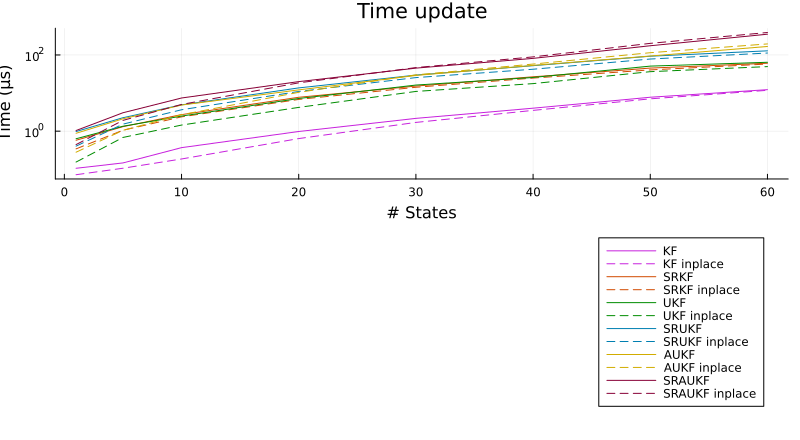
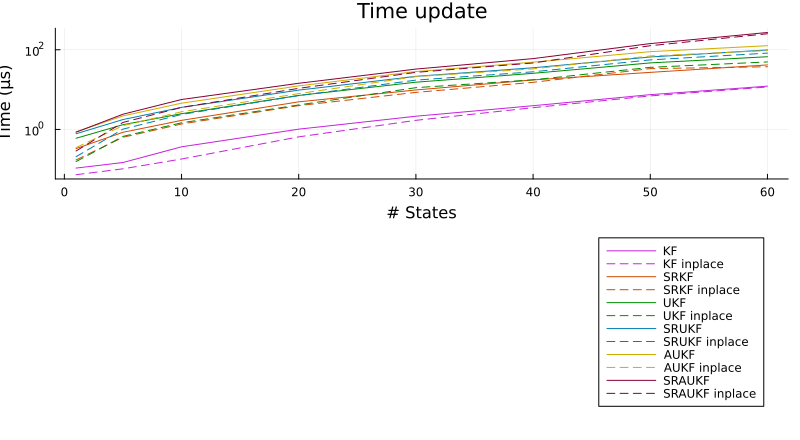
docs: regenerate the benchmark plots with a BLAS-backed in-place noise model
run_benchmarks.jl modelled the in-place augmented process/measurement
model as `y .= @~ F * x .+ noise`. LazyArrays can't lower this fused
expression to BLAS, so each call was ~4x slower than the allocating
`F * x .+ noise`, which made the in-place AUKF/SR-AUKF look slower than
the allocating variants in the plots (e.g. 519 vs 126 μs for the AUKF
time update with 60 states). Use mul! followed by .+= instead and
regenerate the plots.

Changed region(s): [[0.0938, 0.0591, 0.9688, 0.3841], [0.0312, 0.2659, 0.0625, 0.325], [0.0312, 0.0886, 0.0625, 0.1477]]

diff --git a/README.md b/README.md
@@ -146,7 +146,7 @@ There is a benchmark to compare the different implementations in the benchmark f
 ![Measurement update timings](benchmark/mu_time.png)
 ![Measurement update allocations](benchmark/mu_alloc.png)
 
-The inplace variants do not allocate and are at least as fast as the allocating variants. For the (linear) Kalman-Filter and the Square-Root Kalman-Filter the gain shrinks for larger numbers of states, because the runtime is then dominated by the matrix products and the QR decomposition, which both variants share.
+The inplace variants do not allocate and are faster than the allocating variants. For the (linear) Kalman-Filter and the Square-Root Kalman-Filter the gain shrinks for larger numbers of states, because the runtime is then dominated by the matrix products and the QR decomposition, which both variants share. For the Square-Root Kalman-Filter measurement update with many states and measurements, both variants are about equally fast.
 
 ### Benchmark CI
 
